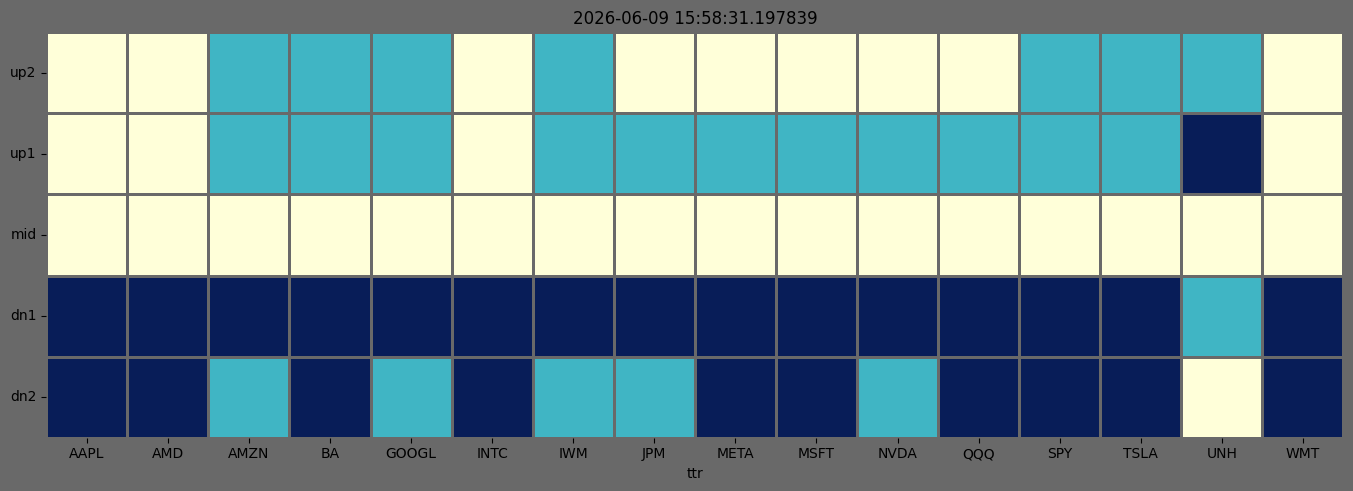
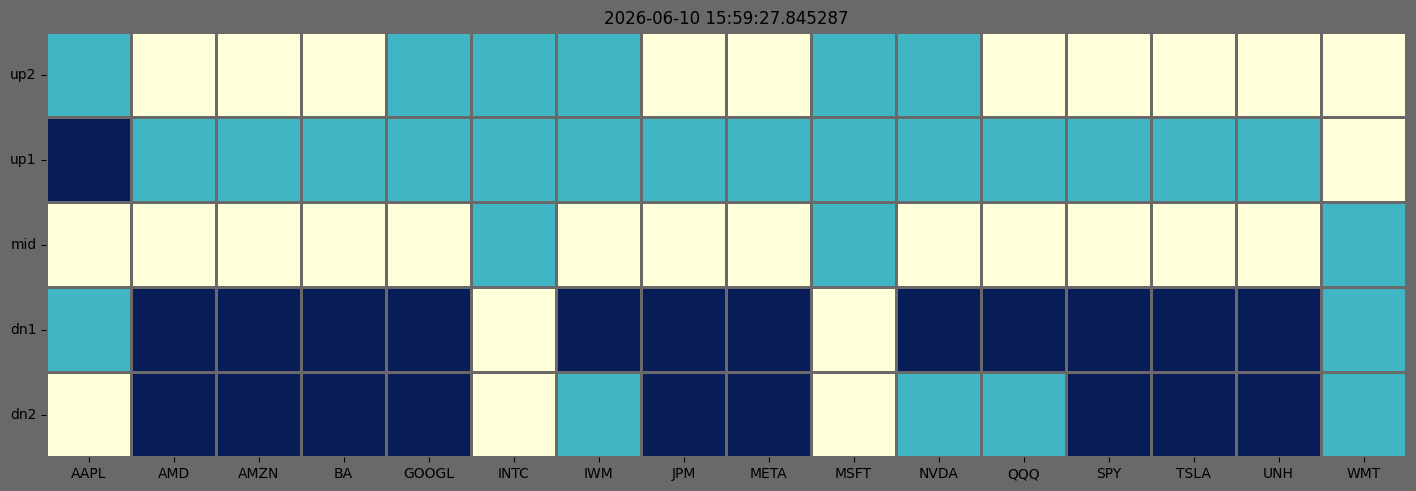
Update tunnel URL

diff --git a/script.js b/script.js
@@ -1,4 +1,4 @@
-const API_URL = "https://innocent-blades-louise-legacy.trycloudflare.com";
+const API_URL = "https://collect-gentleman-qld-after.trycloudflare.com";
 
 let lastUpdate = 0;
 let currentTabFile = null;